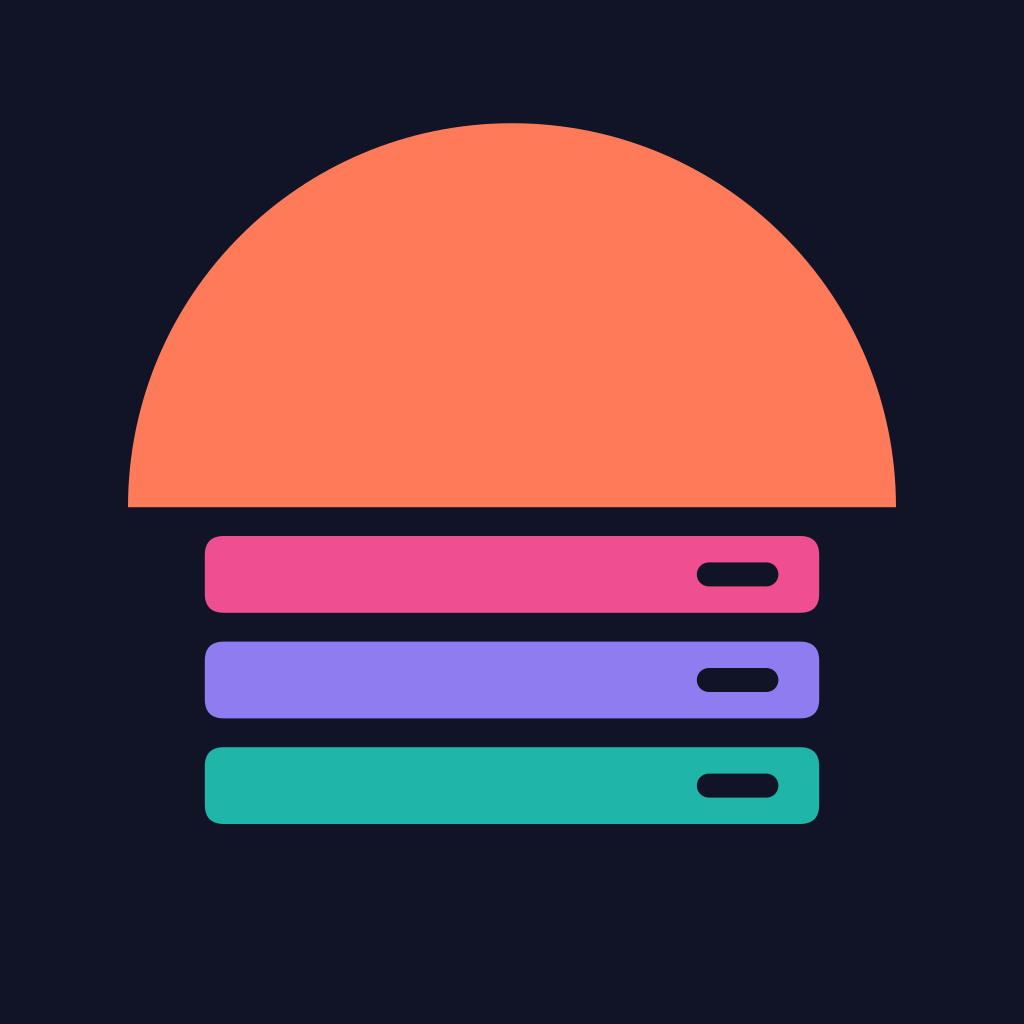
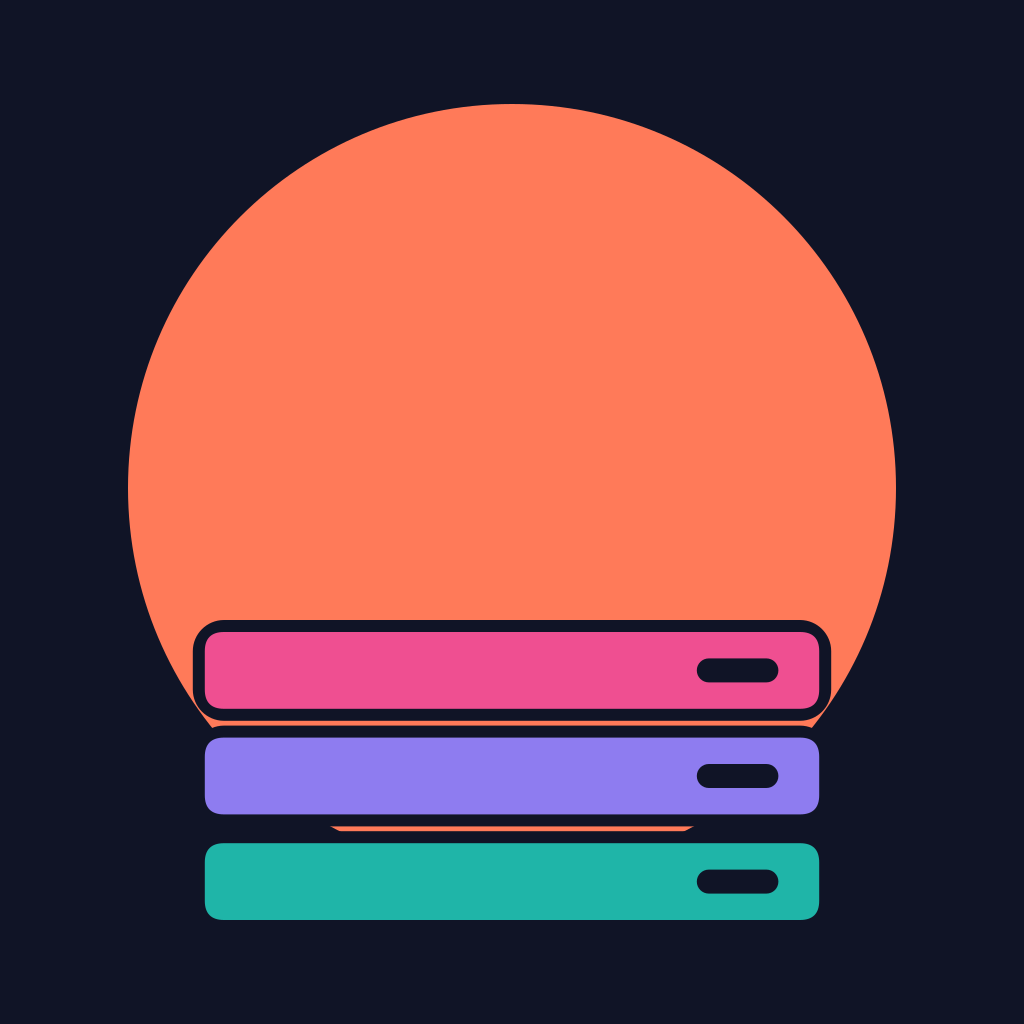
Layer compute server stack in front of sunset

diff --git a/brand/beachside-compute/README.md b/brand/beachside-compute/README.md
@@ -7,18 +7,18 @@ The parent-company identity pairs a sunset with three compute-server bars.
 ## Files
 
 - `github-avatar.png`: upload-ready 1024 × 1024 organization avatar, navy background with padding for circular crops. Editable master: `github-avatar.svg`.
-- `logo-navy.svg` / `.png`: full horizontal logo on navy (PNG: 2176 × 768).
+- `logo-navy.svg` / `.png`: full horizontal logo on navy (PNG: 2176 × 832).
 - `logo-on-dark.svg` / `.png`: transparent horizontal logo with cream lettering.
 - `logo-on-light.svg` / `.png`: transparent horizontal logo with navy lettering.
 - `mark.svg` / `.png`: transparent standalone color symbol (PNG: 1024 × 1024).
 - `mark-monochrome.svg`: single-color navy symbol; change its fills for other one-color applications.
 
-SVGs are the editable vector masters. All lettering is outlined, with no font dependencies or external resources. PNGs are sRGB exports. Status slots are true transparent cutouts. Keep the symbol proportions and leave clear space around the artwork; use the symbol alone for avatars and small placements.
+SVGs are the editable vector masters. All lettering is outlined, with no font dependencies or external resources. PNGs are sRGB exports. Status slots are true transparent cutouts. A mask keeps the sun clear of the server trays, preserving transparent separation and slots. Keep the symbol proportions and leave clear space around the artwork; use the symbol alone for avatars and small placements.
 
 ## Palette and construction
 
 Coral `#ff7a59`, pink `#ef4f91`, lavender `#8e7cf0`, and aqua `#1fb5a8` match the Beachside docs brand tokens. Navy is `#101426`; cream is `#f5eee3`.
 
-The symbol uses a 320-unit semicircle (25% wider than the 256-unit server bars) above three 32-unit bars, separated by 12-unit gaps. Each bar has a 34 × 10-unit rounded status cutout. The wordmark was outlined from Helvetica Neue Bold Italic; COMPUTE from Helvetica Neue Bold with expanded tracking.
+The symbol uses a 320-unit sun disk (25% wider than the 256-unit server bars) behind three 32-unit foreground bars, separated by 12-unit gaps. Each bar has a 34 × 10-unit rounded status cutout. The wordmark was outlined from Helvetica Neue Bold Italic; COMPUTE from Helvetica Neue Bold with expanded tracking.
 
 These production assets are a geometric SVG reconstruction of the selected AI-generated Sunset Stack concept. The PNGs were rendered from the SVG masters. Visually checked at full size and with the avatar at 64 × 64. Assets live here independently of the website.
